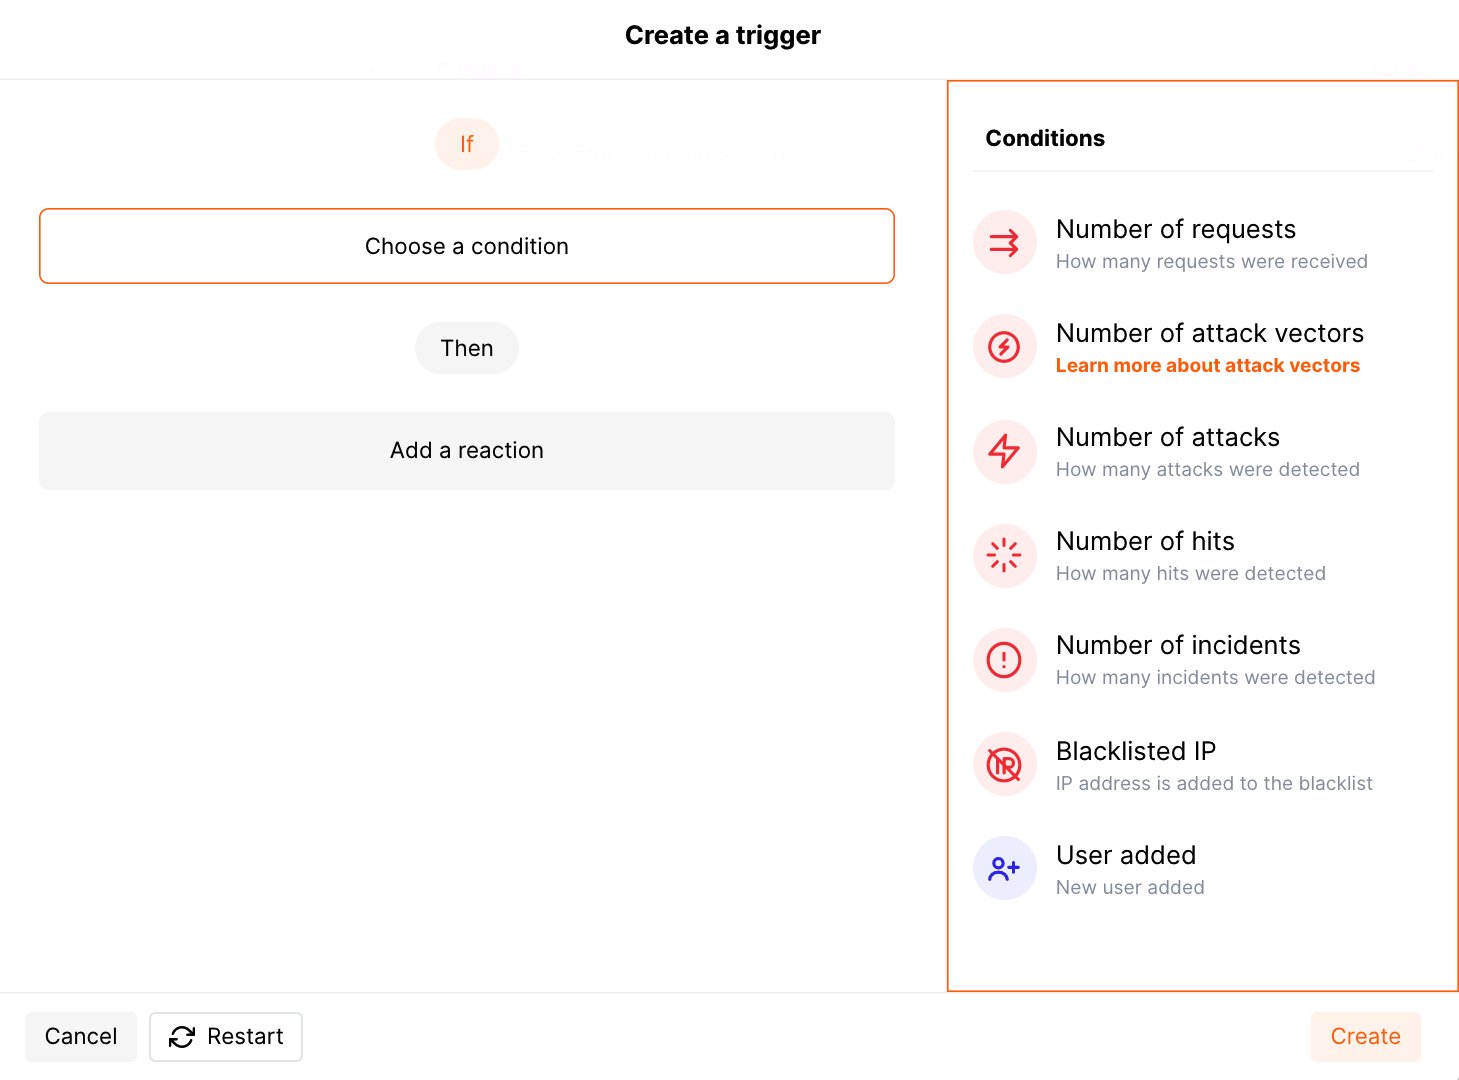
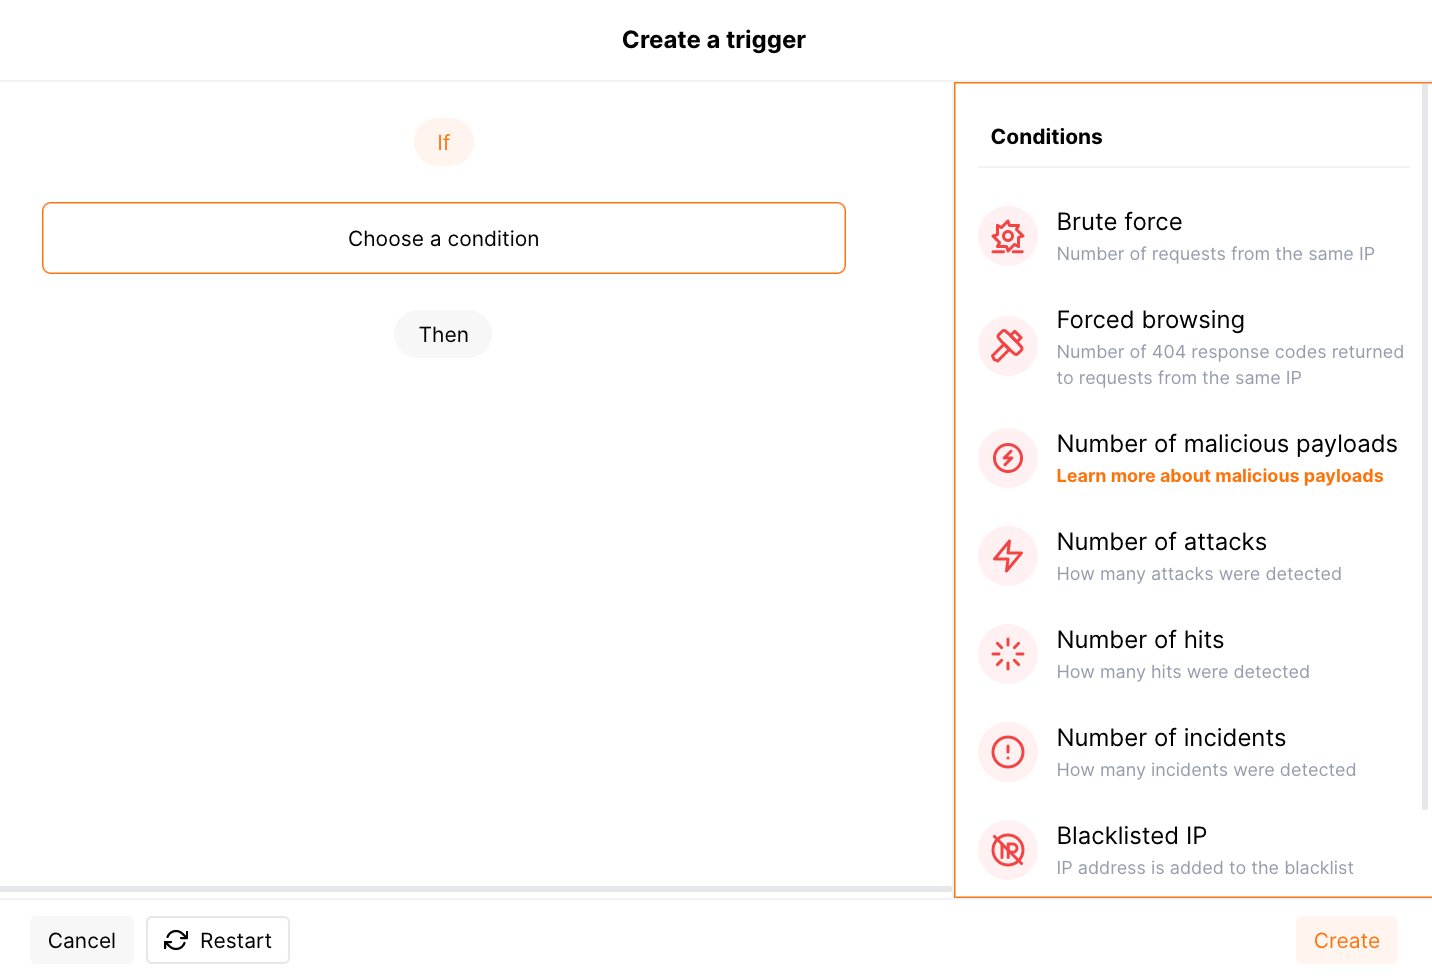
DOCS-1105 update the trigger docs with new conditions

diff --git a/docs/latest/user-guides/triggers/triggers.md b/docs/latest/user-guides/triggers/triggers.md
@@ -6,7 +6,7 @@ Triggers are tools that are used to set up custom notifications and reactions to
 
 * Receive alerts on major events via the tools you use for your day-to-day workflow, for example via corporate messengers or incident management systems.
 * Block IP addresses from which a certain number of requests or attack vectors were sent.
-* Identify brute‑force and dirbust attacks by the number of requests sent to the application addresses.
+* Identify brute‑force and forced browsing attacks by the number of requests sent to the application addresses.
 
 You can configure all the trigger components:
 
@@ -30,7 +30,8 @@ Triggers are configured in the **Triggers** section of Wallarm Console. The sect
 
 A condition is a system event to be notified about. The following conditions are available for notification:
 
-* Number of requests
+* [Brute force](../../admin-en/configuration-guides/protecting-against-bruteforce.md)
+* [Forced browsing](../../admin-en/configuration-guides/protecting-against-bruteforce.md)
 * Number of [attack vectors (malicious payloads)](../../glossary-en.md#malicious-payload)
 * Number of [attacks](../../glossary-en.md#attack)
 * Number of [hits](../../glossary-en.md#hit)
@@ -48,20 +49,7 @@ Filters are used for condition detailing. For example, you can set up reactions 
 
 The following filters are available:
 
-* **URL** (only for the number of requests): full URL to which the request was sent. This filter is used if the protected resource listens for incoming requests on port other than 80 or 443. If the resource listens for incoming requests on port 80 orr 443, please configure the URL via the **Counter name** filter.
-
-    URL format is `host:port/path`. The scheme should be omitted. The `port` value must contain a non‑standard port (to specify 80 or 443 port, please configure the URL via the **Counter name** filter).
-    
-    For example: `example.com:8888/login` or `255.255.255.255:8888/login`. [Trigger example with the URL filter →](trigger-examples.md#with-the-filter-by-url)
-
-    !!! warning "Compatibility with other filters"
-        This filter can be used with all available filters except **Counter name**.
-* **Counter name** (only for the number of requests): counter name created in the [rule defining a counter](../rules/define-counters.md).
-
-    [Trigger example with the counter name filter →](trigger-examples.md#with-the-filter-by-the-counter-name)
-
-    !!! warning "Compatibility with other filters"
-        This filter can be used with all available filters except **URL**.
+* **URI** (only for the conditions **Brute force** and **Forced browsing**): full URI to which the request was sent. URI can be configured via the [URI constructor](../../user-guides/rules/add-rule.md#uri-constructor) or [advanced edit form](../../user-guides/rules/add-rule.md#advanced-edit-form).
 * **Type** is a [type](../../attacks-vulns-list.md) of attack detected in the request or a type of vulnerability the request is directed to.
 * **Application** is the [application](../settings/applications.md) that receives the request or in which an incident is detected.
 * **IP** is the IP address from which the request is sent.
@@ -78,7 +66,7 @@ Choose one or more filters in the Wallarm Console interface and set values for t
 
 A reaction is an action that should be performed if the specified condition and filters are met. The set of available reactions depends on the selected condition. Reactions can be of the following types:
 
-* Mark the requests as brute‑force or forced browsing (dirbust) attack. Requests will be marked as attacks in the events list but will not be blocked. To block requests, you can add an additional reaction: [blacklist](../ip-lists/blacklist.md) IP address.
+* [Mark the requests as brute‑force or forced browsing attack](../../admin-en/configuration-guides/protecting-against-bruteforce.md). Requests will be marked as attacks in the events list but will not be blocked. To block requests, you can add an additional reaction: [blacklist](../ip-lists/blacklist.md) IP address.
 * Add IP to the [blacklist](../ip-lists/blacklist.md).
 * Add IP to the [greylist](../ip-lists/greylist.md).
 * Send a notification to the messenger, SIEM system or Webhook URL configured in the [integrations](../settings/integrations/integrations-intro.md).

diff --git a/docs/2.18/user-guides/triggers/triggers.md b/docs/2.18/user-guides/triggers/triggers.md
@@ -6,7 +6,7 @@ Triggers are tools that are used to set up custom notifications and reactions to
 
 * Receive alerts on major events via the tools you use for your day-to-day workflow, for example via corporate messengers or incident management systems.
 * Block IP addresses from which a certain number of requests or attack vectors were sent.
-* Identify brute‑force and dirbust attacks by the number of requests sent to the application addresses.
+* Identify brute‑force and forced browsing attacks by the number of requests sent to the application addresses.
 
 You can configure all the trigger components:
 
@@ -35,7 +35,8 @@ Triggers are configured in the **Triggers** section of Wallarm Console. The sect
 
 A condition is a system event to be notified about. The following conditions are available for notification:
 
-* Number of requests
+* [Brute force](../../admin-en/configuration-guides/protecting-against-bruteforce.md)
+* [Forced browsing](../../admin-en/configuration-guides/protecting-against-bruteforce.md)
 * Number of [attack vectors (malicious payloads)](../../glossary-en.md#malicious-payload)
 * Number of [attacks](../../glossary-en.md#attack)
 * Number of [hits](../../glossary-en.md#hit)
@@ -53,20 +54,7 @@ Filters are used for condition detailing. For example, you can set up reactions 
 
 The following filters are available:
 
-* **URL** (only for the number of requests): full URL to which the request was sent. This filter is used if the protected resource listens for incoming requests on port other than 80 or 443. If the resource listens for incoming requests on port 80 orr 443, please configure the URL via the **Counter name** filter.
-
-    URL format is `host:port/path`. The scheme should be omitted. The `port` value must contain a non‑standard port (to specify 80 or 443 port, please configure the URL via the **Counter name** filter).
-    
-    For example: `example.com:8888/login` or `255.255.255.255:8888/login`. [Trigger example with the URL filter →](trigger-examples.md#with-the-filter-by-url)
-
-    !!! warning "Compatibility with other filters"
-        This filter can be used with all available filters except **Counter name**.
-* **Counter name** (only for the number of requests): counter name created in the [rule defining a counter](../rules/define-counters.md).
-
-    [Trigger example with the counter name filter →](trigger-examples.md#with-the-filter-by-the-counter-name)
-
-    !!! warning "Compatibility with other filters"
-        This filter can be used with all available filters except **URL**.
+* **URI** (only for the conditions **Brute force** and **Forced browsing**): full URI to which the request was sent. URI can be configured via the [URI constructor](../../user-guides/rules/add-rule.md#uri-constructor) or [advanced edit form](../../user-guides/rules/add-rule.md#advanced-edit-form).
 * **Type** is a [type](../../attacks-vulns-list.md) of attack detected in the request or a type of vulnerability the request is directed to.
 * **Application** is the [application](../settings/applications.md) that receives the request or in which an incident is detected.
 * **IP** is the IP address from which the request is sent.
@@ -83,7 +71,7 @@ Choose one or more filters in the Wallarm Console interface and set values for t
 
 A reaction is an action that should be performed if the specified condition and filters are met. The set of available reactions depends on the selected condition. Reactions can be of the following types:
 
-* Mark the requests as brute‑force or forced browsing (dirbust) attack. Requests will be marked as attacks in the events list but will not be blocked. To block requests, you can add an additional reaction: [blacklist](../blacklist.md) IP address.
+* [Mark the requests as brute‑force or forced browsing attack](../../admin-en/configuration-guides/protecting-against-bruteforce.md). Requests will be marked as attacks in the events list but will not be blocked. To block requests, you can add an additional reaction: [blacklist](../blacklist.md) IP address.
 * Add IP to the [blacklist](../blacklist.md).
 * Send a notification to the messenger, SIEM system or Webhook URL configured in the [integrations](../settings/integrations/integrations-intro.md).
 

diff --git a/docs/2.18/user-guides/triggers/trigger-examples.md b/docs/2.18/user-guides/triggers/trigger-examples.md
@@ -25,31 +25,25 @@ You can perform all available trigger actions: edit, disable, delete, or copy th
 
     To search for attacks, you can use the filters, for example: `sqli` for the [SQLi](../../attacks-vulns-list.md#sql-injection) attacks, `xss` for the [XSS](../../attacks-vulns-list.md#crosssite-scripting-xss) attacks, `ptrav` for the [Path Traversal](../../attacks-vulns-list.md#path-traversal) attacks. All filters are described in the [instructions on search using](../../user-guides/search-and-filters/use-search.md).
 
-## Mark requests as a brute‑force or dirbust attack if 31 or more requests are sent to the protected resource
+## Mark requests as a brute‑force attack if 31 or more requests are sent to the protected resource
 
-### With the filter by the counter name
+To mark requests as a regular brute-force attack, the trigger with the condition **Brute force** should be configured.
 
-If 31 or more requests are sent to `https://example.com/api/frontend/login` in 30 seconds, these requests will be marked as [brute‑force attack](../../attacks-vulns-list.md#bruteforce-attack) and the IP address from which requests were originated will be added to the blacklist.
-
-The request URL `https://example.com/api/frontend/login` is specified in the rule **Tag requests as a brute-force attack**.
+If 31 or more requests are sent to `https://example.com/api/v1/login` in 30 seconds, these requests will be marked as [brute‑force attack](../../attacks-vulns-list.md#bruteforce-attack) and the IP address from which requests were originated will be added to the blacklist.
 
 ![!Brute force trigger with counter](../../images/user-guides/triggers/trigger-example6.png)
 
-To mark requests as the dirbust (forced browsing) attack, it is required to use the rule **Tag requests as a forced browsing attack**.
-
 [Details on configuration of brute force protection and trigger testing →](../../admin-en/configuration-guides/protecting-against-bruteforce.md)
 
-### With the filter by URL
+## Mark requests as a forced browsing attack if the 404 code is returned to 31 or more requests
 
-If 31 or more requests are sent to `example.com:8888/api/frontend/login` in 30 seconds:
+To mark requests as a forced browsing attack, the trigger with the condition **Forced browsing** should be configured.
 
-* These requests will be marked as [brute‑force attack](../../attacks-vulns-list.md#bruteforce-attack) and the IP address from which requests were originated will be added to the blacklist.
-* If the code 404 was returned in the response to all requests, these requests will be marked as [dirbust (forced browsing) attack](../../attacks-vulns-list.md#forced-browsing) and the IP address from which requests were originated will be added to the blacklist.
+If the endpoint `https://example.com/**.**` returns 404 response code 31 or more times in 30 seconds, appropriate requests will be marked as a [forced browsing attack](../../attacks-vulns-list.md#forced-browsing) and a source IP address of these requests will be blocked.
 
-!!! info "URL value format"
-    The format of the URL filter value is `host:port/path`. The scheme should be omitted. The `port` value must contain a non‑standard port (to specify 80 or 443 port, please configure the URL via the **Counter name** filter).
+Endpoint examples matching the URI value are `https://example.com/config.json`, `https://example.com/password.txt`.
 
-![!Brute force / dirbust trigger](../../images/user-guides/triggers/trigger-example5.png)
+![!Forced browsing trigger](../../images/user-guides/triggers/trigger-example5.png)
 
 [Details on configuration of brute force protection and trigger testing →](../../admin-en/configuration-guides/protecting-against-bruteforce.md)
 

diff --git a/docs/3.0/user-guides/triggers/trigger-examples.md b/docs/3.0/user-guides/triggers/trigger-examples.md
@@ -51,31 +51,25 @@ If 4 or more different attack vectors are sent to the protected resource from on
 
 If an IP address was blacklisted by this trigger, the filtering node would block all malicious and legitimate requests originated from this IP. To allow legitimate requests, you can configure the [greylisting trigger](#greylist-ip-if-4-or-more-attack-vectors-are-detected-in-1-hour).
 
-## Mark requests as a brute‑force or dirbust attack if 31 or more requests are sent to the protected resource
+## Mark requests as a brute‑force attack if 31 or more requests are sent to the protected resource
 
-### With the filter by the counter name
+To mark requests as a regular brute-force attack, the trigger with the condition **Brute force** should be configured.
 
-If 31 or more requests are sent to `https://example.com/api/frontend/login` in 30 seconds, these requests will be marked as [brute‑force attack](../../attacks-vulns-list.md#bruteforce-attack) and the IP address from which requests were originated will be added to the blacklist.
-
-The request URL `https://example.com/api/frontend/login` is specified in the rule **Tag requests as a brute-force attack**.
+If 31 or more requests are sent to `https://example.com/api/v1/login` in 30 seconds, these requests will be marked as [brute‑force attack](../../attacks-vulns-list.md#bruteforce-attack) and the IP address from which requests were originated will be added to the blacklist.
 
 ![!Brute force trigger with counter](../../images/user-guides/triggers/trigger-example6.png)
 
-To mark requests as the dirbust (forced browsing) attack, it is required to use the rule **Tag requests as a forced browsing attack**.
-
 [Details on configuration of brute force protection and trigger testing →](../../admin-en/configuration-guides/protecting-against-bruteforce.md)
 
-### With the filter by URL
+## Mark requests as a forced browsing attack if the 404 code is returned to 31 or more requests
 
-If 31 or more requests are sent to `example.com:8888/api/frontend/login` in 30 seconds:
+To mark requests as a forced browsing attack, the trigger with the condition **Forced browsing** should be configured.
 
-* These requests will be marked as [brute‑force attack](../../attacks-vulns-list.md#bruteforce-attack) and the IP address from which requests were originated will be added to the blacklist.
-* If the code 404 was returned in the response to all requests, these requests will be marked as [dirbust (forced browsing) attack](../../attacks-vulns-list.md#forced-browsing) and the IP address from which requests were originated will be added to the blacklist.
+If the endpoint `https://example.com/**.**` returns 404 response code 31 or more times in 30 seconds, appropriate requests will be marked as a [forced browsing attack](../../attacks-vulns-list.md#forced-browsing) and a source IP address of these requests will be blocked.
 
-!!! info "URL value format"
-    The format of the URL filter value is `host:port/path`. The scheme should be omitted. The `port` value must contain a non‑standard port (to specify 80 or 443 port, please configure the URL via the **Counter name** filter).
+Endpoint examples matching the URI value are `https://example.com/config.json`, `https://example.com/password.txt`.
 
-![!Brute force / dirbust trigger](../../images/user-guides/triggers/trigger-example5.png)
+![!Forced browsing trigger](../../images/user-guides/triggers/trigger-example5.png)
 
 [Details on configuration of brute force protection and trigger testing →](../../admin-en/configuration-guides/protecting-against-bruteforce.md)
 

diff --git a/docs/latest/user-guides/triggers/trigger-examples.md b/docs/latest/user-guides/triggers/trigger-examples.md
@@ -51,31 +51,25 @@ If 4 or more different attack vectors are sent to the protected resource from on
 
 If an IP address was blacklisted by this trigger, the filtering node would block all malicious and legitimate requests originated from this IP. To allow legitimate requests, you can configure the [greylisting trigger](#greylist-ip-if-4-or-more-attack-vectors-are-detected-in-1-hour).
 
-## Mark requests as a brute‑force or dirbust attack if 31 or more requests are sent to the protected resource
+## Mark requests as a brute‑force attack if 31 or more requests are sent to the protected resource
 
-### With the filter by the counter name
+To mark requests as a regular brute-force attack, the trigger with the condition **Brute force** should be configured.
 
-If 31 or more requests are sent to `https://example.com/api/frontend/login` in 30 seconds, these requests will be marked as [brute‑force attack](../../attacks-vulns-list.md#bruteforce-attack) and the IP address from which requests were originated will be added to the blacklist.
-
-The request URL `https://example.com/api/frontend/login` is specified in the rule **Tag requests as a brute-force attack**.
+If 31 or more requests are sent to `https://example.com/api/v1/login` in 30 seconds, these requests will be marked as [brute‑force attack](../../attacks-vulns-list.md#bruteforce-attack) and the IP address from which requests were originated will be added to the blacklist.
 
 ![!Brute force trigger with counter](../../images/user-guides/triggers/trigger-example6.png)
 
-To mark requests as the dirbust (forced browsing) attack, it is required to use the rule **Tag requests as a forced browsing attack**.
-
 [Details on configuration of brute force protection and trigger testing →](../../admin-en/configuration-guides/protecting-against-bruteforce.md)
 
-### With the filter by URL
+## Mark requests as a forced browsing attack if the 404 code is returned to 31 or more requests
 
-If 31 or more requests are sent to `example.com:8888/api/frontend/login` in 30 seconds:
+To mark requests as a forced browsing attack, the trigger with the condition **Forced browsing** should be configured.
 
-* These requests will be marked as [brute‑force attack](../../attacks-vulns-list.md#bruteforce-attack) and the IP address from which requests were originated will be added to the blacklist.
-* If the code 404 was returned in the response to all requests, these requests will be marked as [dirbust (forced browsing) attack](../../attacks-vulns-list.md#forced-browsing) and the IP address from which requests were originated will be added to the blacklist.
+If the endpoint `https://example.com/**.**` returns 404 response code 31 or more times in 30 seconds, appropriate requests will be marked as a [forced browsing attack](../../attacks-vulns-list.md#forced-browsing) and a source IP address of these requests will be blocked.
 
-!!! info "URL value format"
-    The format of the URL filter value is `host:port/path`. The scheme should be omitted. The `port` value must contain a non‑standard port (to specify 80 or 443 port, please configure the URL via the **Counter name** filter).
+Endpoint examples matching the URI value are `https://example.com/config.json`, `https://example.com/password.txt`.
 
-![!Brute force / dirbust trigger](../../images/user-guides/triggers/trigger-example5.png)
+![!Forced browsing trigger](../../images/user-guides/triggers/trigger-example5.png)
 
 [Details on configuration of brute force protection and trigger testing →](../../admin-en/configuration-guides/protecting-against-bruteforce.md)
 

diff --git a/docs/2.18/admin-en/configuration-guides/protecting-against-bruteforce.md b/docs/2.18/admin-en/configuration-guides/protecting-against-bruteforce.md
@@ -65,7 +65,7 @@ Example of the **Brute force** trigger to block the regular brute‑force attack
 
 ![!Brute force trigger example](../../images/user-guides/triggers/trigger-example6.png)
 
-Description of the provided example and other trigger examples used for brute force protection are available within this [link](../../user-guides/triggers/trigger-examples.md#mark-requests-as-a-bruteforce-or-dirbust-attack-if-31-or-more-requests-are-sent-to-the-protected-resource).
+Description of the provided example and other trigger examples used for brute force protection are available within this [link](../../user-guides/triggers/trigger-examples.md#mark-requests-as-a-bruteforce-attack-if-31-or-more-requests-are-sent-to-the-protected-resource).
 
 You can configure several triggers for brute force protection.
 

diff --git a/docs/latest/admin-en/configuration-guides/protecting-against-bruteforce.md b/docs/latest/admin-en/configuration-guides/protecting-against-bruteforce.md
@@ -66,7 +66,7 @@ Example of the **Brute force** trigger to block the regular brute‑force attack
 
 ![!Brute force trigger example](../../images/user-guides/triggers/trigger-example6.png)
 
-Description of the provided example and other trigger examples used for brute force protection are available within this [link](../../user-guides/triggers/trigger-examples.md#mark-requests-as-a-bruteforce-or-dirbust-attack-if-31-or-more-requests-are-sent-to-the-protected-resource).
+Description of the provided example and other trigger examples used for brute force protection are available within this [link](../../user-guides/triggers/trigger-examples.md#mark-requests-as-a-bruteforce-attack-if-31-or-more-requests-are-sent-to-the-protected-resource).
 
 You can configure several triggers for brute force protection.
 
